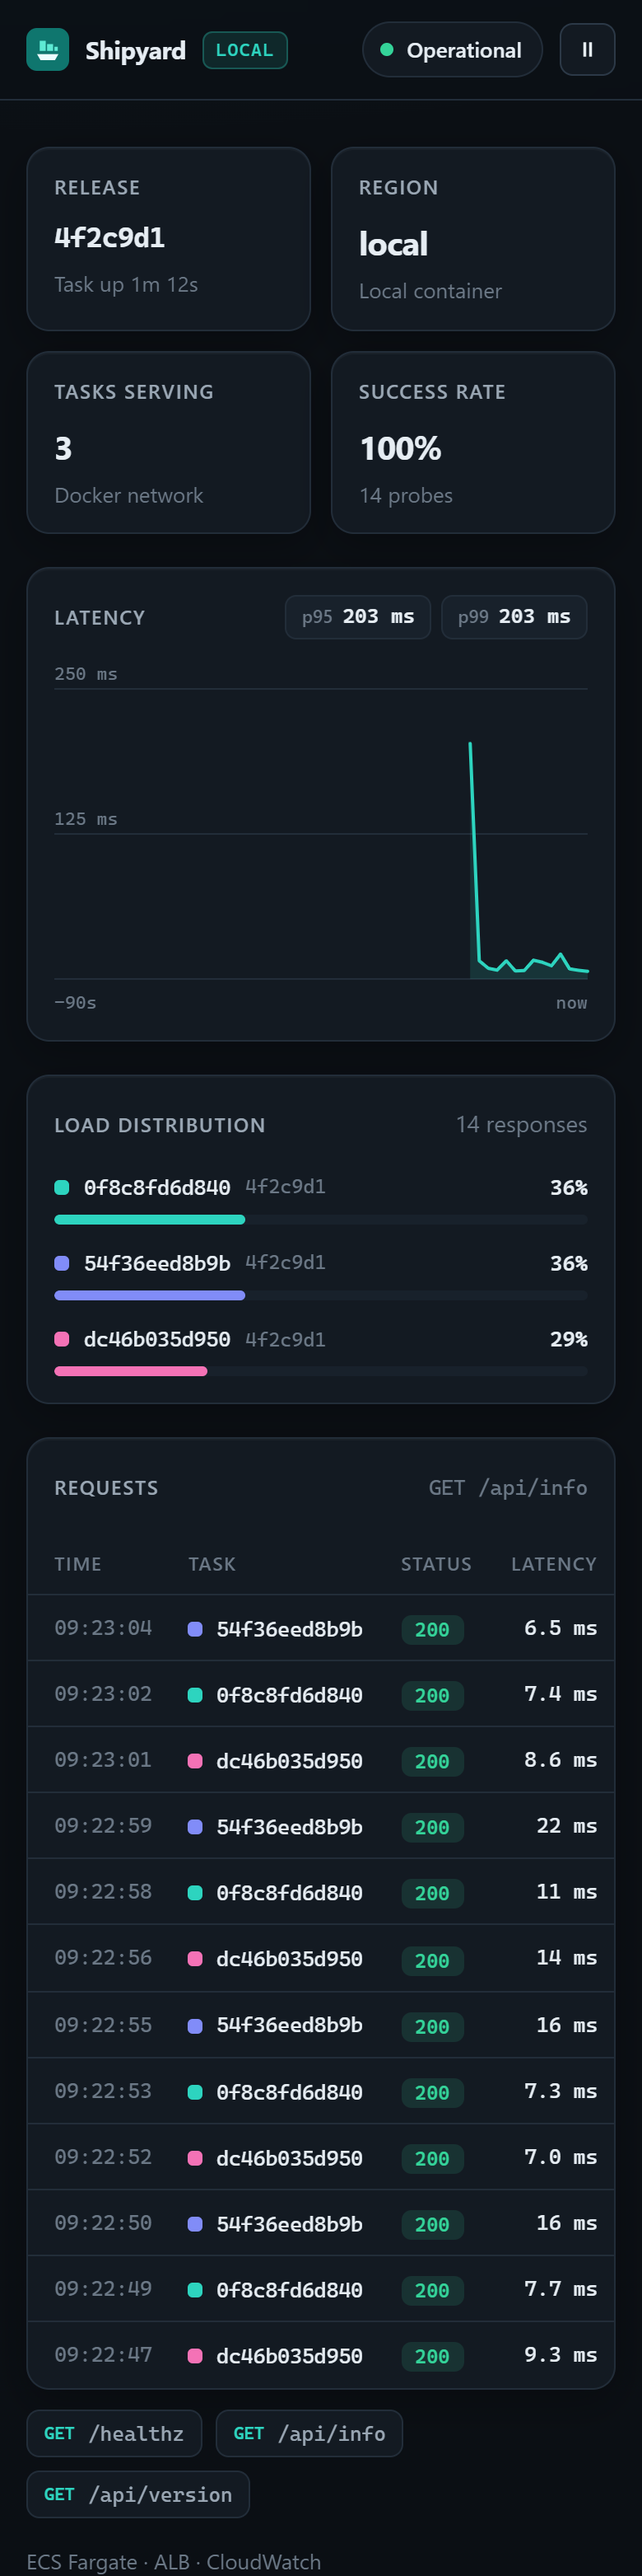
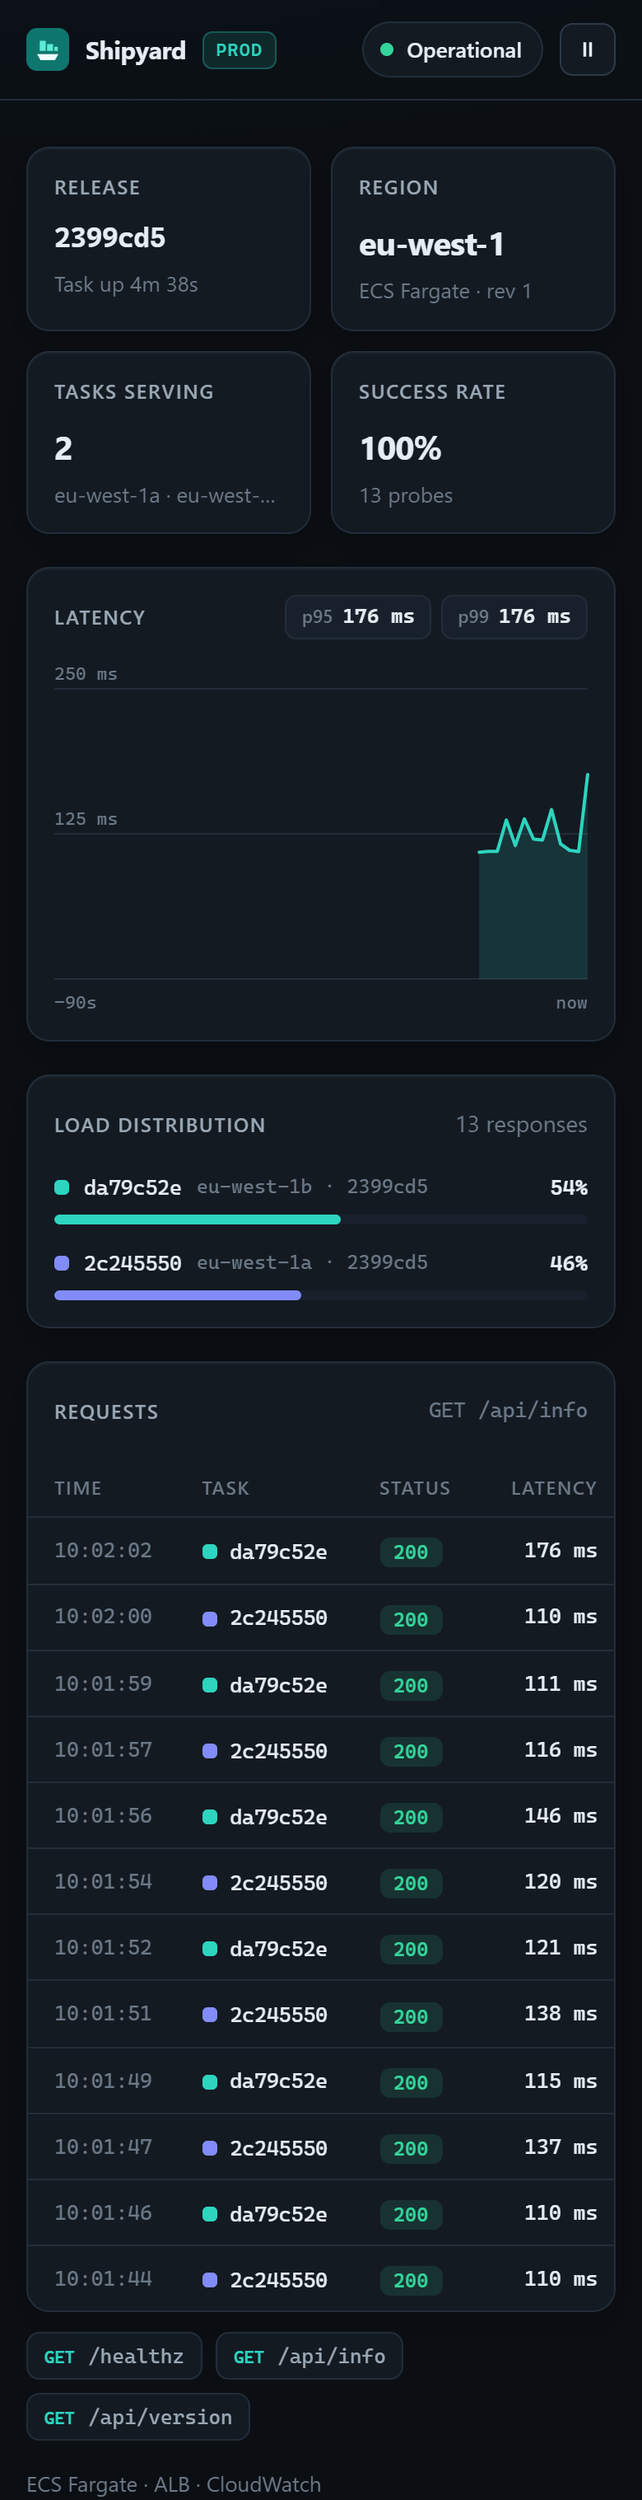
Add live deployment link and screenshots from ECS

diff --git a/README.md b/README.md
@@ -9,7 +9,9 @@ A containerised web service deployed to **AWS ECS Fargate** behind an **Applicat
 
 A push to `main` runs tests, builds and scans an image, pushes it to ECR, applies Terraform, rolls the ECS service, and smoke-tests the live URL. You do nothing by hand after the one-time bootstrap.
 
-![Shipyard console](docs/console.png)
+**Live:** http://shipyard-prod-2113359311.eu-west-1.elb.amazonaws.com (while the review stack is running)
+
+![Shipyard console running on ECS Fargate](docs/console.png)
 
 The service serves a small operations console. It probes the load balancer every 1.5 s and shows:
 - which release is live
@@ -219,7 +221,7 @@ Pipeline guarantees:
 | **Private subnets + single NAT** | Tasks are not reachable from the internet. One NAT saves about $35/month; `single_nat_gateway = false` gives one per AZ. |
 | **S3 native state locking** (`use_lockfile`) | Terraform ≥ 1.10 locks in S3 directly, so no DynamoDB table is needed. |
 | **Bootstrap stack kept separate** | The state bucket can't store its own state, and ECR/IAM outlive any one environment. Environments are `tfvars` files plus a state key, with no copy-pasted roots. |
-| **OIDC, two roles** | No long-lived keys in GitHub. PRs can only plan (read-only). Only the `production` environment can assume the deploy role, which allows only the services the stack uses and only IAM roles prefixed `shipyard-`. |
+| **OIDC, two roles** (classic and immutable `sub` claims accepted) | No long-lived keys in GitHub. PRs can only plan (read-only). Only the `production` environment can assume the deploy role, which allows only the services the stack uses and only IAM roles prefixed `shipyard-`. |
 | **Shared shell scripts** for build/deploy/smoke | GitHub Actions and Jenkins run identical logic, so the CI system is swappable. |
 | **Zero-dependency Node service** | No supply-chain surface to audit. Tests use the built-in `node:test`, and the image is just Alpine Node plus the app. |
 | **Tests run inside the image build** | The image that ships is built from the same layers that passed the tests. |
